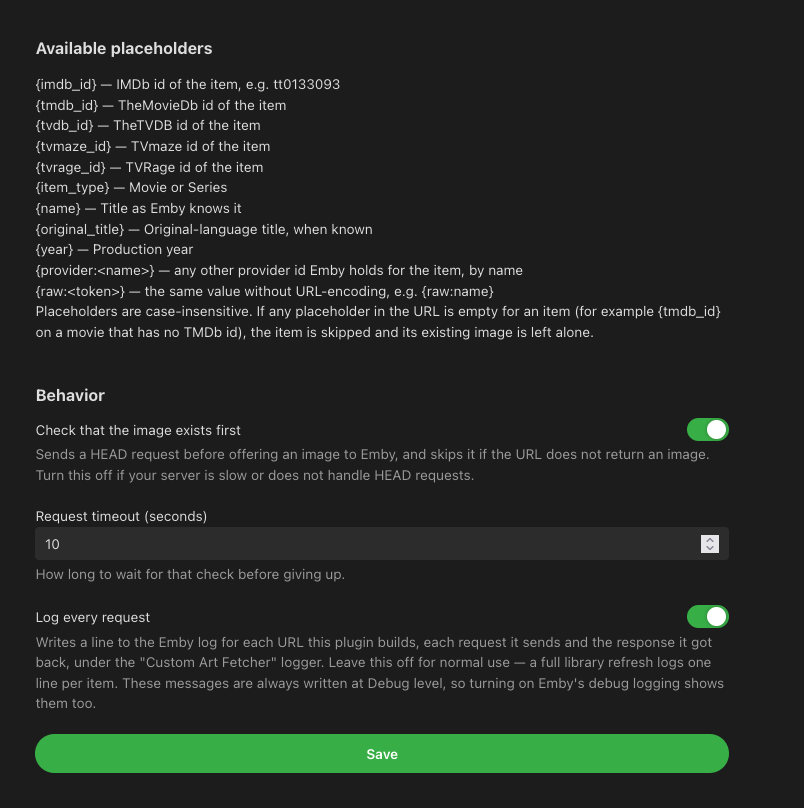
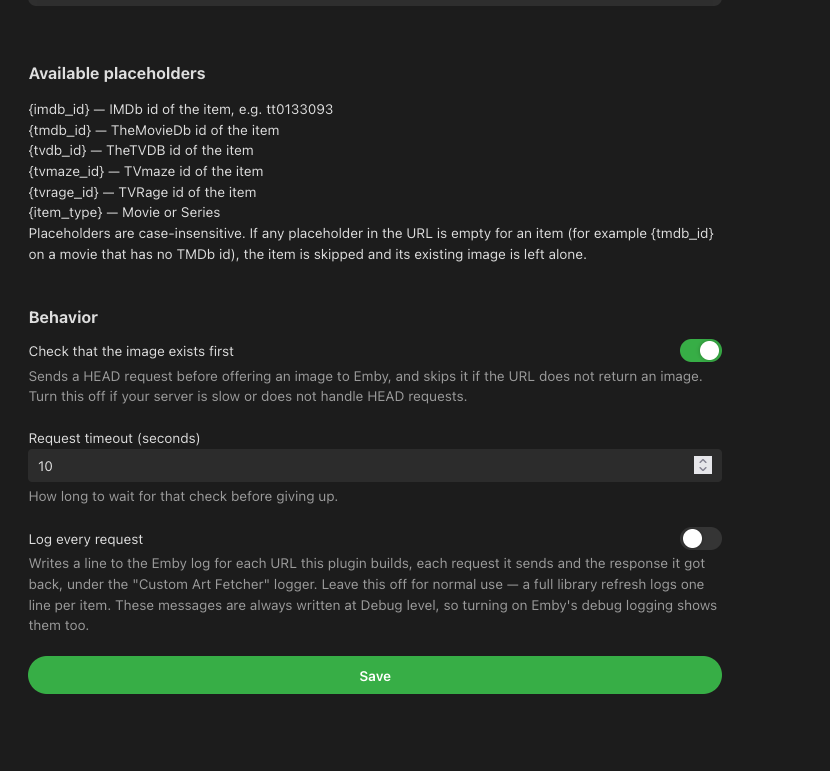
remove unneeded placeholders

diff --git a/src/Emby.Plugin.CustomArtFetcher/Model/PlaceholderCatalog.cs b/src/Emby.Plugin.CustomArtFetcher/Model/PlaceholderCatalog.cs
@@ -2,7 +2,6 @@ namespace Emby.Plugin.CustomArtFetcher.Model
 {
     using System;
     using System.Collections.Generic;
-    using System.Globalization;
     using System.Linq;
     using System.Text;
     using System.Text.RegularExpressions;
@@ -17,9 +16,6 @@ namespace Emby.Plugin.CustomArtFetcher.Model
     /// </summary>
     public static class PlaceholderCatalog
     {
-        private const string RawPrefix = "raw:";
-        private const string ProviderPrefix = "provider:";
-
         private static readonly Regex TokenPattern = new Regex(@"\{([^{}]+)\}", RegexOptions.Compiled);
 
         private static readonly Placeholder[] Placeholders =
@@ -30,10 +26,6 @@ namespace Emby.Plugin.CustomArtFetcher.Model
             new Placeholder("tvmaze_id", "TVmaze id of the item", item => item.GetProviderId(MetadataProviders.TvMaze)),
             new Placeholder("tvrage_id", "TVRage id of the item", item => item.GetProviderId(MetadataProviders.TvRage)),
             new Placeholder("item_type", "Movie or Series", item => item.GetType().Name),
-            new Placeholder("name", "Title as Emby knows it", item => item.Name),
-            new Placeholder("original_title", "Original-language title, when known", item => item.OriginalTitle),
-            // Convert.ToString handles both int and int? here, yielding string.Empty when unset.
-            new Placeholder("year", "Production year", item => Convert.ToString(item.ProductionYear, CultureInfo.InvariantCulture)),
         };
 
         private static readonly Dictionary<string, Placeholder> Lookup =
@@ -69,21 +61,15 @@ namespace Emby.Plugin.CustomArtFetcher.Model
 
                 var token = match.Groups[1].Value.Trim();
 
-                var raw = token.StartsWith(RawPrefix, StringComparison.OrdinalIgnoreCase);
-                if (raw)
-                {
-                    token = token.Substring(RawPrefix.Length).Trim();
-                }
-
                 var value = ResolveToken(token, item);
 
                 if (string.IsNullOrEmpty(value))
                 {
-                    missing = match.Groups[1].Value.Trim();
+                    missing = token;
                     return string.Empty;
                 }
 
-                return raw ? value : Uri.EscapeDataString(value);
+                return Uri.EscapeDataString(value);
             });
 
             if (missing != null)
@@ -108,8 +94,6 @@ namespace Emby.Plugin.CustomArtFetcher.Model
                 builder.Append('{').Append(placeholder.Token).Append("}  —  ").AppendLine(placeholder.Description);
             }
 
-            builder.AppendLine("{provider:<name>}  —  any other provider id Emby holds for the item, by name");
-            builder.AppendLine("{raw:<token>}  —  the same value without URL-encoding, e.g. {raw:name}");
             builder.Append("Placeholders are case-insensitive. If any placeholder in the URL is empty for an item ")
                    .Append("(for example {tmdb_id} on a movie that has no TMDb id), the item is skipped and its ")
                    .Append("existing image is left alone.");
@@ -138,12 +122,6 @@ namespace Emby.Plugin.CustomArtFetcher.Model
 
         private static string ResolveToken(string token, BaseItem item)
         {
-            if (token.StartsWith(ProviderPrefix, StringComparison.OrdinalIgnoreCase))
-            {
-                var providerName = token.Substring(ProviderPrefix.Length).Trim();
-                return string.IsNullOrEmpty(providerName) ? null : item.GetProviderId(providerName);
-            }
-
             Placeholder placeholder;
             return Lookup.TryGetValue(token, out placeholder) ? placeholder.Resolve(item) : null;
         }

diff --git a/README.md b/README.md
@@ -73,9 +73,9 @@ cycle.
 
 ### Placeholders
 
-`{imdb_id}` `{tmdb_id}` `{tvdb_id}` `{tvmaze_id}` `{tvrage_id}` `{item_type}` `{name}`
-`{original_title}` `{year}`, plus `{provider:<name>}` for any other provider id and `{raw:<token>}`
-to skip URL-encoding. Case-insensitive.
+`{imdb_id}` `{tmdb_id}` `{tvdb_id}` `{tvmaze_id}` `{tvrage_id}` `{item_type}`
+
+Case-insensitive, and every value is URL-encoded.
 
 If any placeholder is empty for an item — say `{tmdb_id}` on a movie with no TMDb id — the plugin
 offers nothing for that item and its existing artwork is left alone.
